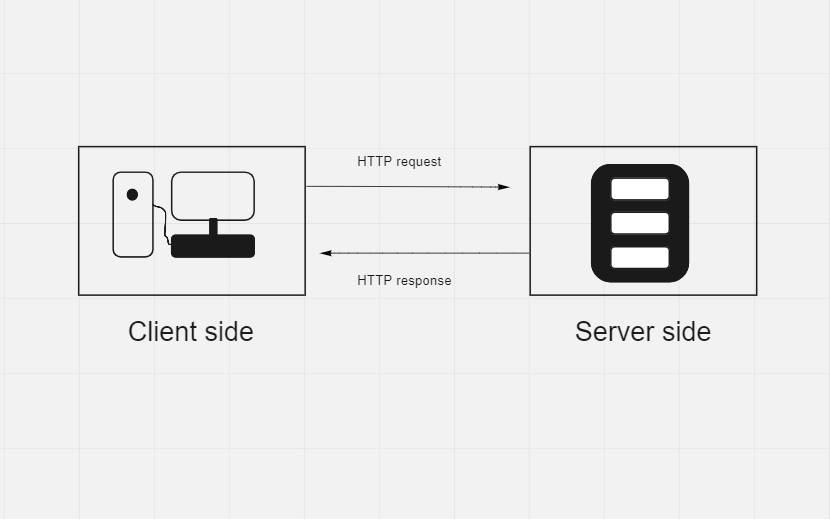
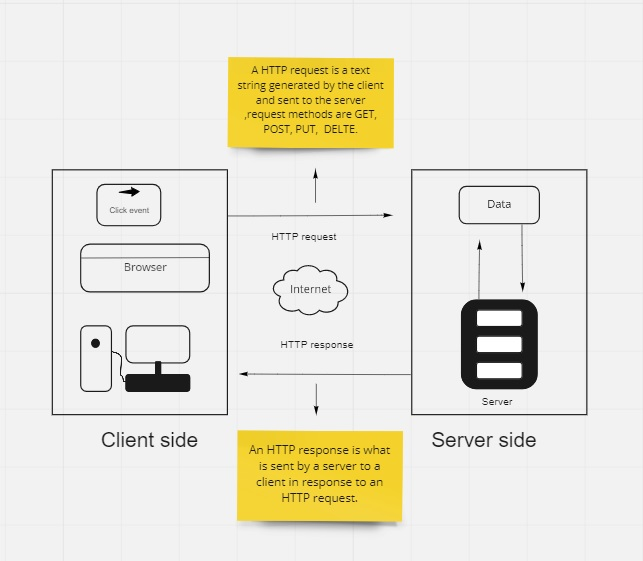
Change WRRC image and overview and fix the error in return function

diff --git a/server.js b/server.js
@@ -1,7 +1,7 @@
 'use strict';
 
 const express = require("express");
-const movies = require("./Movie Data/data.json");
+const movies = require("./movieData/data.json");
 
 const app = express();
 
@@ -15,12 +15,9 @@ app.get('/', indexPagedHandler);
 
 function indexPagedHandler(request, response) {
 
-    let result = [];
-    movies.data.forEach((value) => {
-        let newMovieData = new movieData(value.title, value.poster_path, value.overview);
-        result.push(newMovieData);
-    });
-    return response.status(200).json(result);
+    let newMovieData = new movieData(movies.title, movies.poster_path, movies.overview);
+
+    return response.status(200).json(newMovieData);
 };
 
 app.get('/favorite', favoriteHandler);
@@ -37,5 +34,5 @@ function notFoundHandler(request, response) {
 }
 
 app.listen(3000, () => {
-
+    console.log("Listen on 3000");
 });

diff --git a/README.md b/README.md
@@ -9,7 +9,9 @@
 ![WRRC image](/assets/img/WRRC.jpg)
 
 ## Overview
-The client send HTTP request to the server containing the specifications of the resource the client is asking for,These responses contain a status code and if the request was successful.
+
+The client send HTTP request to the server containing the specifications of the resource the client is asking for,These responses contain a status code and if the request was successful, The user can communicated through the request method. Four of the most common request methods are GET, POST, PUT, and DELTE,Then HTTP response is what is sent by a server to a client in response to an HTTP request. These responses contain a status code and if the request was successful,Finally Once the client receives the HTTP response, the browser will render the HTTP response body message.
+
 ## Getting Started
 
 1. Create server.js file
